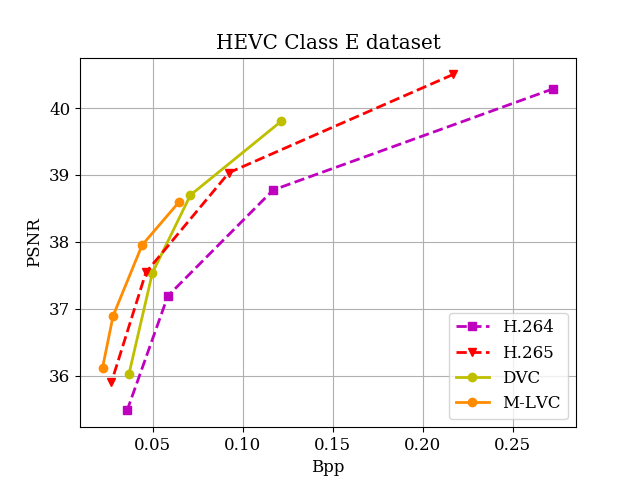
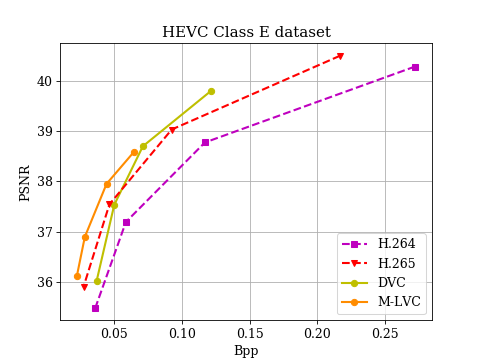
edit figure

diff --git a/Benchmark/draw_HEVC.py b/Benchmark/draw_HEVC.py
@@ -103,7 +103,7 @@ def drawhevc(hclass):
     plt.ylabel('PSNR')
     plt.title('HEVC Class ' + hclass + ' dataset')
     # plt.savefig(savepathpsnr + '.eps', format='eps', dpi=300, bbox_inches='tight')
-    plt.savefig(savepathpsnr + '.png')
+    plt.savefig(savepathpsnr + '.png', dpi=75)
     plt.clf()
 
     # ----------------------------------------MSSSIM-------------------------------------------------
@@ -200,7 +200,7 @@ def drawhevc(hclass):
     plt.ylabel('MS-SSIM')
     plt.title('HEVC Class ' + hclass + ' dataset')
     # plt.savefig(savepathmsssim + '.eps', format='eps', dpi=300, bbox_inches='tight')
-    plt.savefig(savepathmsssim + '.png')
+    plt.savefig(savepathmsssim + '.png', dpi=75)
     plt.clf()
 
 drawhevc('B')

diff --git a/Benchmark/draw_uvg.py b/Benchmark/draw_uvg.py
@@ -46,7 +46,7 @@ plt.xlabel('Bpp')
 plt.ylabel('PSNR')
 plt.title('UVG dataset')
 # plt.savefig(savepathpsnr + '.eps', format='eps', dpi=300, bbox_inches='tight')
-plt.savefig(savepathpsnr + '.png')
+plt.savefig(savepathpsnr + '.png', dpi=75)
 plt.clf()
 
 # ----------------------------------------MSSSIM-------------------------------------------------
@@ -85,5 +85,5 @@ plt.xlabel('Bpp')
 plt.ylabel('MS-SSIM')
 plt.title('UVG dataset')
 # plt.savefig(savepathmsssim + '.eps', format='eps', dpi=300, bbox_inches='tight')
-plt.savefig(savepathmsssim + '.png')
+plt.savefig(savepathmsssim + '.png', dpi=75)
 plt.clf()

diff --git a/Benchmark/draw_vtl.py b/Benchmark/draw_vtl.py
@@ -33,7 +33,7 @@ plt.xlabel('Bpp')
 plt.ylabel('PSNR')
 plt.title('VTL dataset')
 # plt.savefig(savepathpsnr + '.eps', format='eps', dpi=300, bbox_inches='tight')
-plt.savefig(savepathpsnr + '.png')
+plt.savefig(savepathpsnr + '.png', dpi=75)
 plt.clf()
 
 # ----------------------------------------MSSSIM-------------------------------------------------
@@ -65,5 +65,5 @@ plt.xlabel('Bpp')
 plt.ylabel('MS-SSIM')
 plt.title('VTL dataset')
 # plt.savefig(savepathmsssim + '.eps', format='eps', dpi=300, bbox_inches='tight')
-plt.savefig(savepathmsssim + '.png')
+plt.savefig(savepathmsssim + '.png', dpi=75)
 plt.clf()

diff --git a/Benchmark/draw_mcl.py b/Benchmark/draw_mcl.py
@@ -44,7 +44,7 @@ plt.grid()
 plt.xlabel('Bpp')
 plt.ylabel('PSNR')
 plt.title('MCL-JCV dataset')
-plt.savefig(savepathpsnr)
+plt.savefig(savepathpsnr, dpi=75)
 # plt.savefig(savepathpsnreps, format='eps', dpi=300, bbox_inches='tight')
 plt.clf()
 
@@ -75,6 +75,6 @@ plt.grid()
 plt.xlabel('Bpp')
 plt.ylabel('MS-SSIM')
 plt.title('MCL-JCV dataset')
-plt.savefig(savepathmsssim)
+plt.savefig(savepathmsssim, dpi=75)
 # plt.savefig(savepathmsssimeps, format='eps', dpi=300, bbox_inches='tight')
 plt.clf()
